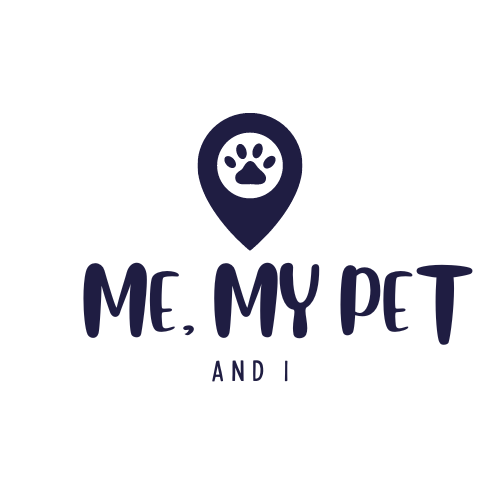
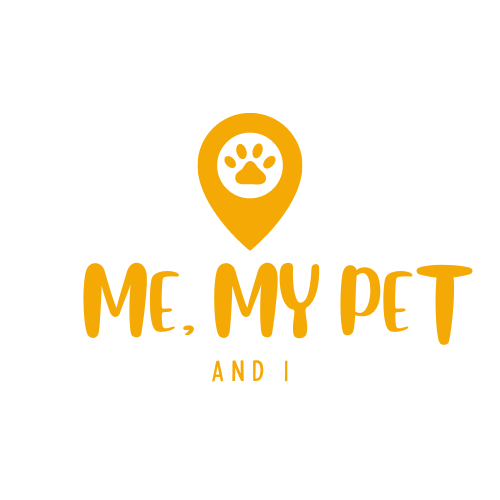
changed colors to match the brand

diff --git a/src/index.html b/src/index.html
@@ -64,14 +64,14 @@
     </div>
   </section>
   
-<section class="section" id="nameGenerator">
+<!-- <section class="section" id="nameGenerator"> -->
 
 
 <!-- Random Name generator-->
 <section class="section" id="nameGenerator">
     <div class='container nameGenerator-Box'>
       <div class="nameGenerator-container">
-        <button class="button is-primary is-large nameGenerator-button ">Name Generator</button>
+        <button class="button is-large nameGenerator-button ">Name Generator</button>
 
       </div>
       <div>

diff --git a/src/styles.css b/src/styles.css
@@ -26,14 +26,16 @@
 #howFavoriteList {
     visibility: visible
 }
-
+a{
+    color: black;
+}
 
 body {
-    background-color: #E0E0CE;
+    background-color: #fff;
 }
 
 #search {
-    background-color: #124E78;
+    background-color: #F4A905;
     color: white;
 }
 
@@ -192,7 +194,7 @@ div.columns {
 }
 
 .nameGenerator-button {
-    background-color: #124E78;
+    background-color: #F4A905;
     color: #fff;
 }
 

diff --git a/src/favorites.js b/src/favorites.js
@@ -41,7 +41,7 @@ if (savedDogs.length > 0) {
     localStorage.setItem("favoriteDogs", JSON.stringify(savedDogs));
     // e.parentNode.parentNode.parentNode.removeChild(e.parentNode.parentNode);
 
-    console.log();
+    
     if (e.target.parentNode.classList.contains("card-image")) {
       console.log(e.target.parentNode);
       e.target.parentNode.parentNode.removeChild(e.target.parentNode);
